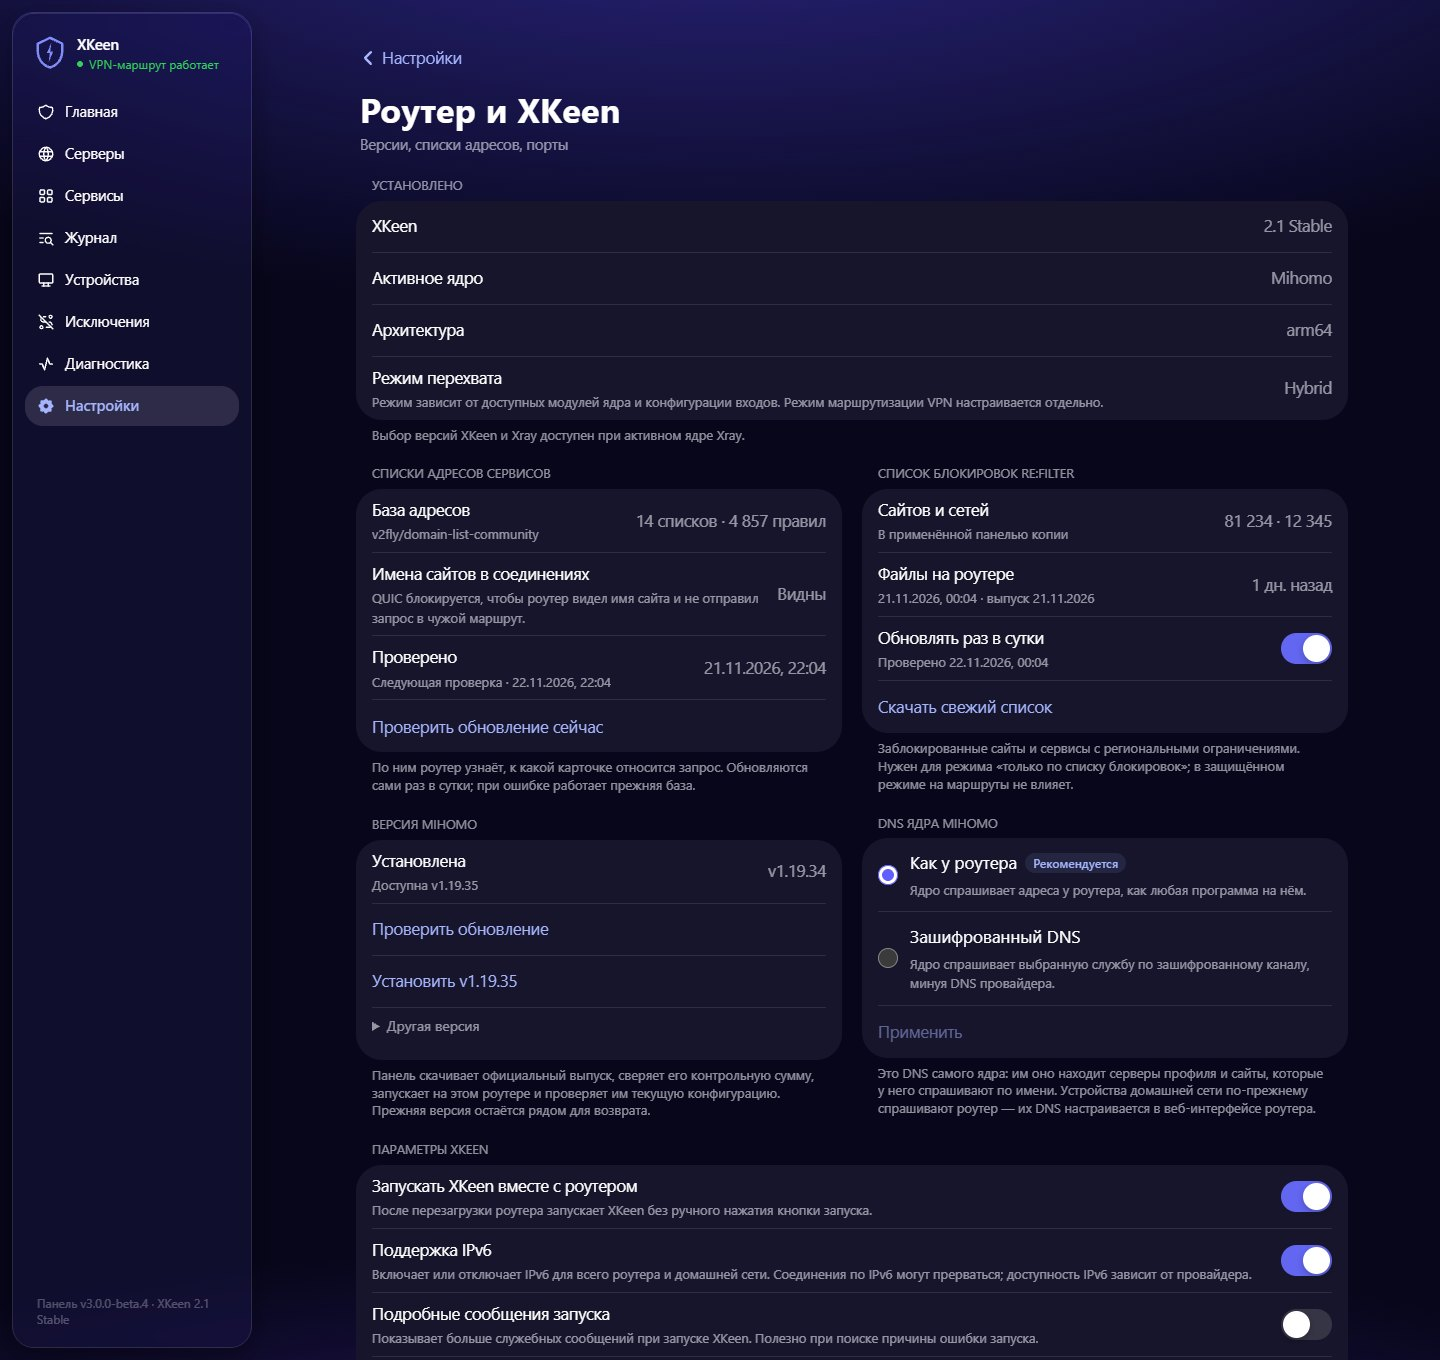
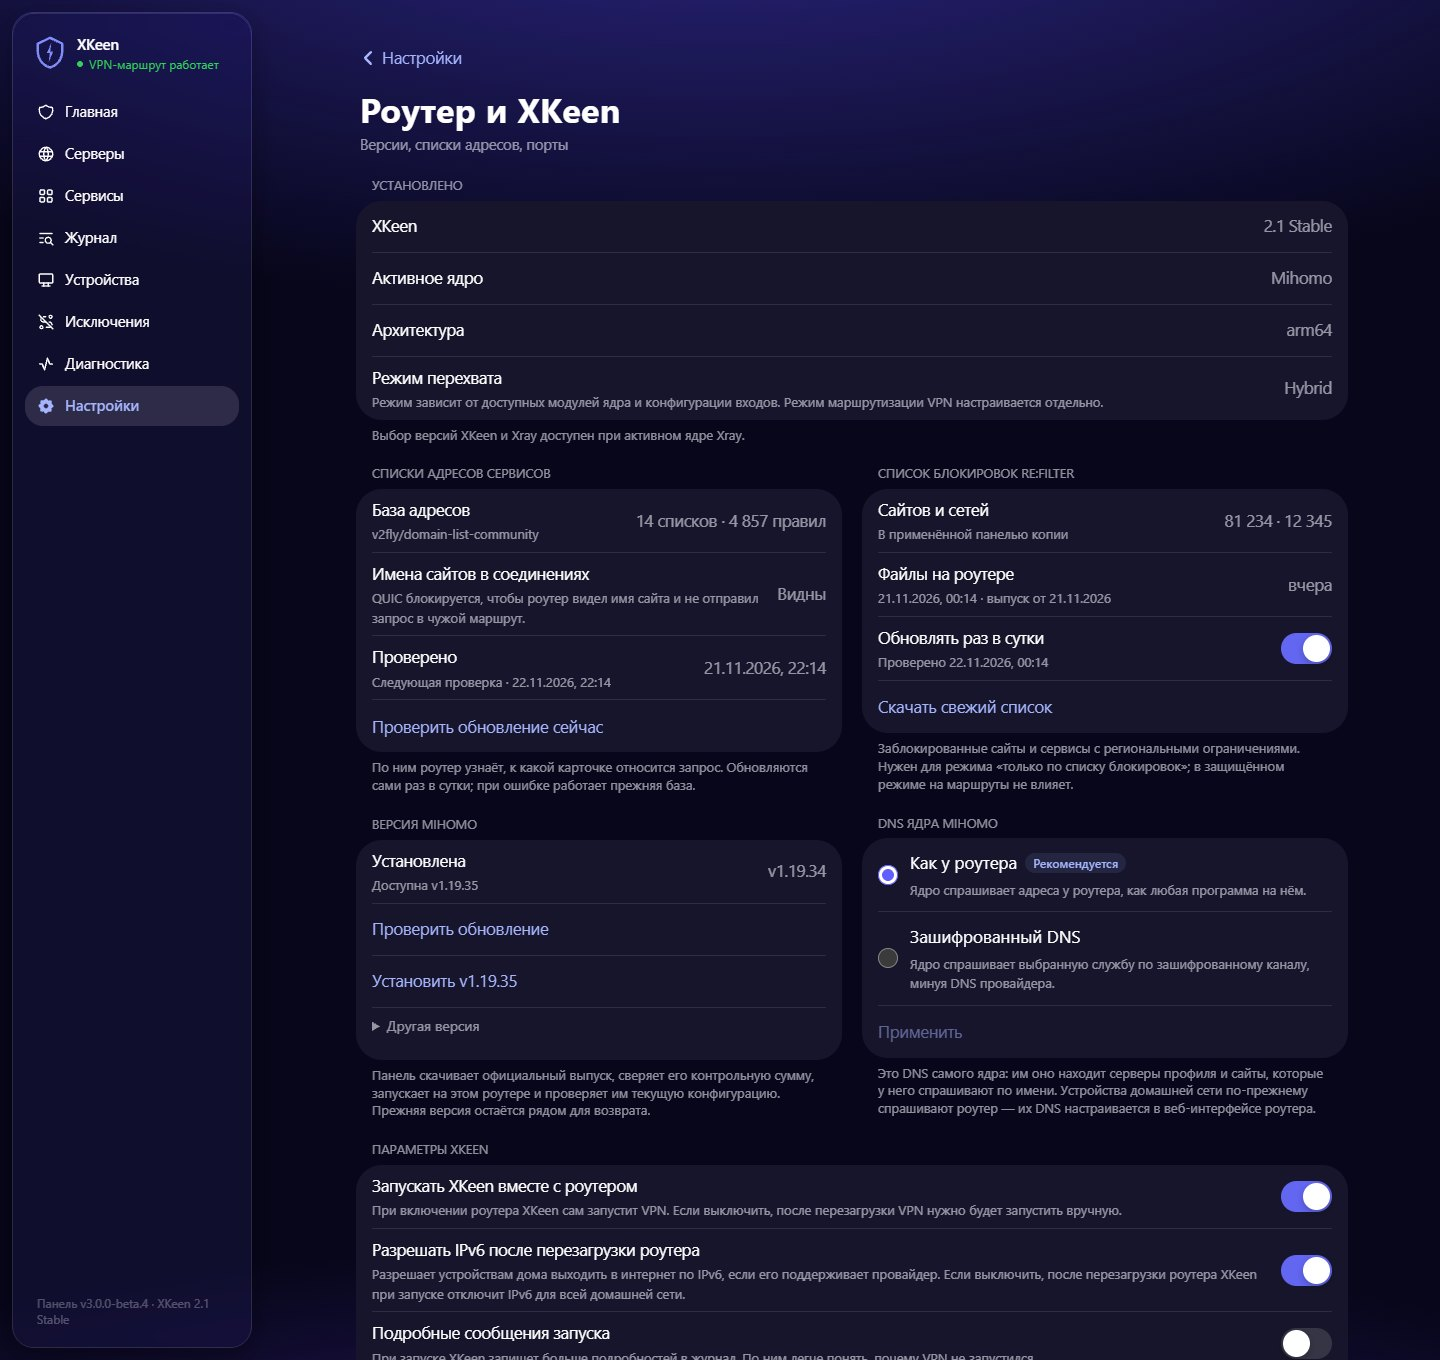
Word the block list rows the way the owner reads them
The age of the block list files counts calendar days and says
"yesterday", and the release is shown as the date its tag encodes. The
hint of XKeen's own geodata schedule no longer says the block list
depends on it, now that the panel downloads the list itself. The Mihomo
demo shows the XKeen switches as that core words them.

Changed region(s): [[0.25, 0.8647, 0.9375, 1.0], [0.5625, 0.8647, 0.7812, 0.8956], [0.7188, 0.4324, 0.75, 0.4632]]

diff --git a/frontend/src/components/blocklistRouting.tsx b/frontend/src/components/blocklistRouting.tsx
@@ -112,7 +112,11 @@ export function RefilterBase() {
     const info = files.data
     // The age of the files on the router, whoever wrote them.
     const changed = info?.files_changed_at ? Date.parse(info.files_changed_at) : 0
-    const days = changed ? Math.floor((Date.now() - changed) / DAY) : 0
+    // Calendar days, as the owner counts them: a file from last evening is yesterday's.
+    const dayOf = (time: number) => { const d = new Date(time); return Math.round(Date.UTC(d.getFullYear(), d.getMonth(), d.getDate()) / DAY) }
+    const days = changed ? Math.max(0, dayOf(Date.now()) - dayOf(changed)) : 0
+    // The source names its releases by date without separators: 07112026.
+    const release = info?.version?.replace(/^(\d{2})(\d{2})(\d{4})$/, '$1.$2.$3')
     const stale = changed > 0 && Date.now() - changed > WEEK
     const busy = info?.busy || download.isPending
     const error = download.error?.message || auto.error?.message || update.error?.message || state.error?.message || info?.error
@@ -122,8 +126,8 @@ export function RefilterBase() {
         {data && (data.domains > 0 || data.prefixes > 0)
             ? <Row label='Сайтов и сетей' detail={`${count.format(data.domains)} · ${count.format(data.prefixes)}`} hint='В применённой панелью копии' />
             : <Row label={state.isPending ? 'Читаем список…' : 'Список ещё не применялся'} hint={data ? 'Панель читает его при включении режима «по списку блокировок».' : undefined} />}
-        {changed > 0 && <Row label='Файлы на роутере' detail={<span className={stale ? 'text-warning' : undefined}>{days === 0 ? 'сегодня' : `${days} дн. назад`}</span>}
-            hint={moment(info!.files_changed_at!) + (info?.version ? ' · выпуск ' + info.version : '')} />}
+        {changed > 0 && <Row label='Файлы на роутере' detail={<span className={stale ? 'text-warning' : undefined}>{days === 0 ? 'сегодня' : days === 1 ? 'вчера' : `${days} дн. назад`}</span>}
+            hint={moment(info!.files_changed_at!) + (release ? ' · выпуск от ' + release : '')} />}
         {info?.supported && <>
             <Row label='Обновлять раз в сутки' hint={info.checked_at ? 'Проверено ' + moment(info.checked_at) : 'Панель сама скачивает свежий список и проверяет его перед заменой.'}
                 trailing={<Switch label='Обновлять список блокировок раз в сутки' checked={info.auto} disabled={auto.isPending} onChange={next => auto.mutate(next)} />} />

diff --git a/internal/demo/mihomo.go b/internal/demo/mihomo.go
@@ -1,6 +1,10 @@
 package demo
 
-import "time"
+import (
+	"time"
+
+	"xkeen-panel/internal/components"
+)
 
 // XKEEN_DEMO_CORE=mihomo shows the pages that exist only with the Mihomo core:
 // service cards, the kill switch, protected routing and the address lists.
@@ -56,6 +60,17 @@ func demoDeviceRows() []object {
 		add(name, false, name != "Приставка" && name != "Умная колонка")
 	}
 	return rows
+}
+
+// The XKeen switches as the panel words them with the Mihomo core.
+func demoMihomoSettings() []components.Setting {
+	return []components.Setting{
+		{ID: "autostart", Name: "Запускать XKeen вместе с роутером", Hint: "При включении роутера XKeen сам запустит VPN. Если выключить, после перезагрузки VPN нужно будет запустить вручную.", Enabled: true, Supported: true},
+		{ID: "ipv6", Name: "Разрешать IPv6 после перезагрузки роутера", Hint: "Разрешает устройствам дома выходить в интернет по IPv6, если его поддерживает провайдер. Если выключить, после перезагрузки роутера XKeen при запуске отключит IPv6 для всей домашней сети.", Enabled: true, Supported: true},
+		{ID: "verbose", Name: "Подробные сообщения запуска", Hint: "При запуске XKeen запишет больше подробностей в журнал. По ним легче понять, почему VPN не запустился.", Enabled: false, Supported: true},
+		{ID: "backup", Name: "Резервная копия при обновлении XKeen", Hint: "При обновлении XKeen сохранит копию своих файлов. Она пригодится, если потребуется вернуть прежнюю версию.", Enabled: true, Supported: true},
+		{ID: "native_geodata_schedule", Name: "Штатное расписание геобаз XKeen", Hint: "По этому расписанию XKeen сам скачивает свои базы. Список блокировок Re:filter панель обновляет и без него — см. блок выше. Здесь расписание можно только отключить.", Enabled: true, Supported: true},
+	}
 }
 
 // demoMihomo answers the Mihomo-only requests; ok is false for every other path.
@@ -126,7 +141,7 @@ func demoMihomo(path string) (data interface{}, ok bool) {
 	case "/api/components":
 		return object{"supported": false, "settings_supported": true, "reason": "нужен установленный XKeen с активным Xray", "architecture": "arm64", "xkeen_version": "2.1 Stable",
 			"mode": "Hybrid", "core": "mihomo", "router_time": now.Format(time.RFC3339), "geodata": object{"sources": []string{}, "auto": false, "day": -1, "hour": 4, "minute": 0},
-			"sources": []object{}, "backups": []object{}, "notes": []string{}, "settings": demoSettings()}, true
+			"sources": []object{}, "backups": []object{}, "notes": []string{}, "settings": demoMihomoSettings()}, true
 	case "/api/dns":
 		return object{"mode": "router", "foreign": false, "presets": []object{
 			{"id": "cloudflare", "name": "Cloudflare", "servers": []string{"https://1.1.1.1/dns-query", "https://1.0.0.1/dns-query"}},
@@ -135,7 +150,7 @@ func demoMihomo(path string) (data interface{}, ok bool) {
 			{"id": "adguard", "name": "AdGuard", "servers": []string{"https://94.140.14.14/dns-query", "https://94.140.15.15/dns-query"}}}}, true
 	case "/api/components/refilter":
 		return object{"supported": true, "auto": true, "busy": false, "checked_at": now.Add(-3 * time.Hour).Format(time.RFC3339), "updated_at": now.Add(-27 * time.Hour).Format(time.RFC3339),
-			"version": "21.11.2026", "files_changed_at": now.Add(-27 * time.Hour).Format(time.RFC3339)}, true
+			"version": "21112026", "files_changed_at": now.Add(-27 * time.Hour).Format(time.RFC3339)}, true
 	case "/api/components/mihomo":
 		return object{"supported": true, "installed": "v1.19.34", "latest": "v1.19.35", "checked_at": now.Add(-2 * time.Hour).Format(time.RFC3339), "staged": false, "busy": false}, true
 	case "/api/multipools":

diff --git a/internal/components/settings.go b/internal/components/settings.go
@@ -153,9 +153,9 @@ func (m *Manager) Settings() []Setting {
 			hint = "Штатное расписание XKeen уже отключено, поэтому переключатель недоступен. Здесь доступно только отключение; для автообновления используйте расписание геобаз панели."
 		}
 		if mihomo {
-			hint = "Если XKeen скачивает для вас базы Re:filter, оставьте расписание включённым. Панель применяет новые правила, когда на роутере обновятся файлы."
+			hint = "По этому расписанию XKeen сам скачивает свои базы. Список блокировок Re:filter панель обновляет и без него — см. блок выше. Здесь расписание можно только отключить."
 			if !enabled {
-				hint = "Штатное расписание выключено. Re:filter работает по сохранённым правилам. Чтобы получать новые правила, файлы баз на роутере должен обновлять другой загрузчик."
+				hint = "Штатное расписание выключено. Список блокировок Re:filter обновляет панель, если в блоке выше включено «Обновлять раз в сутки»."
 			}
 		}
 		result = append(result, Setting{ID: "native_geodata_schedule", Name: "Штатное расписание геобаз XKeen", Hint: hint, Enabled: enabled, Supported: enabled, flag: "-dgc"})
